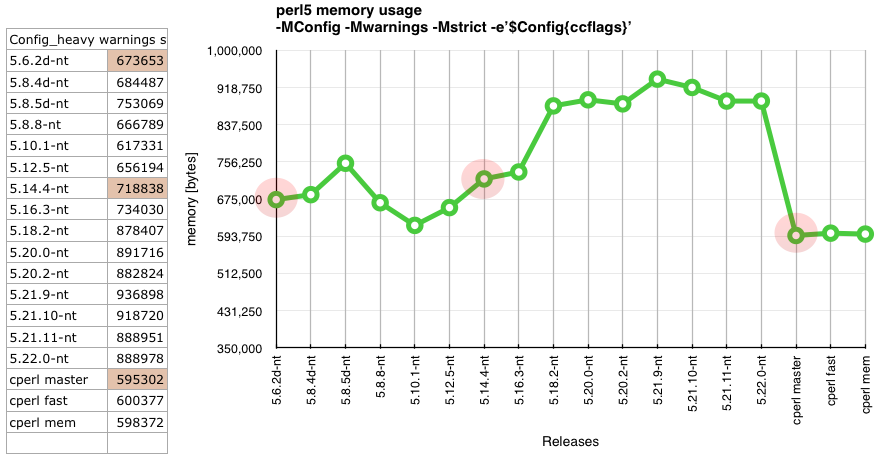
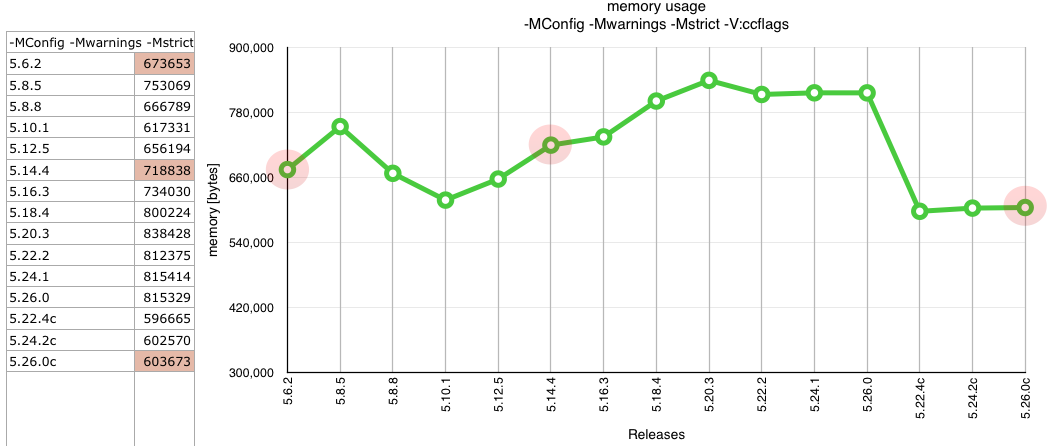
cperl: update benchmarks: speed and memory

diff --git a/cperl/STATUS.html b/cperl/STATUS.html
@@ -59,7 +59,7 @@ done within p5p increases, these numbers do increase over time.</p>
 
 <p><img src="cperl-p1.png" alt="Memory usage with unicode s///i" /></p>
 
-<p><img src="cperl-bench.png" alt="Benchmarks" />
+<p><img src="cperl-bench26.png" alt="Benchmarks" />
 For all versions see <a href="bench-all/index.html">bench-all/</a></p>
 
 <h1>In the stable master branch are the following major features</h1>
